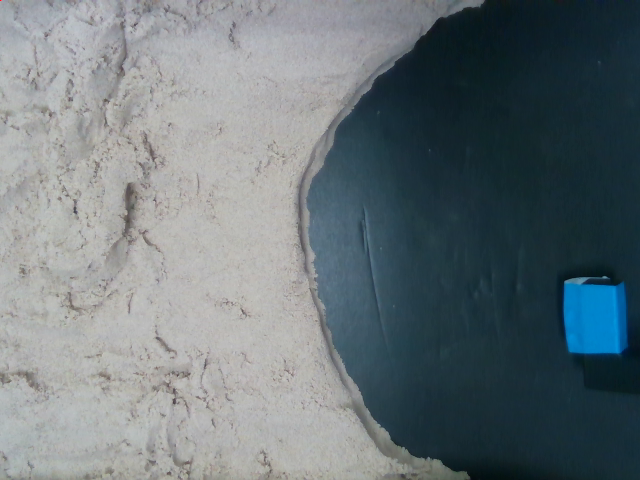
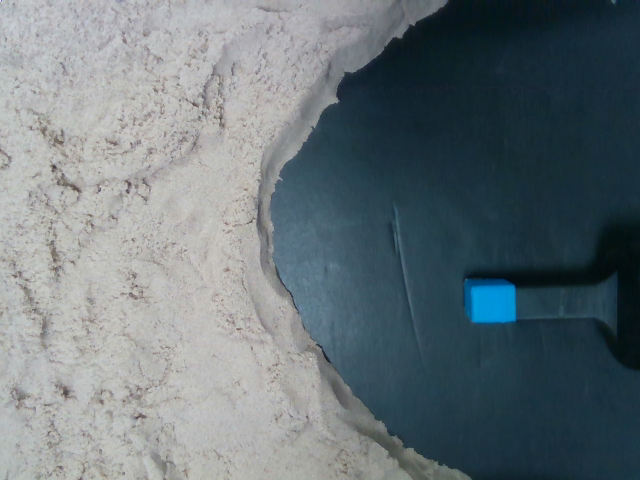
changed ref img. fixed bug about contours. applying dilution to ROI now.

diff --git a/sand_contours.py b/sand_contours.py
@@ -64,9 +64,9 @@ def draw_candidate_pushes(img):
     global sand_actions_msg
     brush_width = 4
     if sand_actions_msg is not None:
-        draw_push(img, sand_actions_msg.ann_push, brush_width, (12,255,255), "Neural Net", (50, 30)) #Yellow
-        draw_push(img, sand_actions_msg.polyreg_push, brush_width, (0,255,125), "Poly Regression", (50, 50))
-        draw_push(img, sand_actions_msg.average_push, brush_width, (12,120,255), "Avg Contour", (50, 70))
+        #draw_push(img, sand_actions_msg.ann_push, brush_width, (12,255,255), "Neural Net", (50, 30)) #Yellow
+        #draw_push(img, sand_actions_msg.polyreg_push, brush_width, (0,255,125), "Poly Regression", (50, 50))
+        #draw_push(img, sand_actions_msg.average_push, brush_width, (12,120,255), "Avg Contour", (50, 70))
         draw_push(img, sand_actions_msg.maxdist_push, brush_width, (255, 255, 0), "Max Contour", (50, 90))
 
 def sand_actions_callback(msg):
@@ -90,32 +90,47 @@ def image_capture(msg):
         save_new = False
     this_ref = image_ref.copy()
     box = get_roi(img.copy())
-    if box is not None:
-        img_contours = sample_contours(get_contours(img.copy(), box))
-        ref_contours = sample_contours(get_contours(image_ref.copy(), box))
+    #print "BOX Width: " + str(box.bot_right_x-box.x)
+    #print "BOX Y: " + str(box.y)
+    
+    if box is None:
+        print "BOX IS NONE!!"
+    else:
 
+        curCont = get_contours(img.copy(), box, True)
+        refCont = get_contours(image_ref.copy(), box, False)
+        
+        img_contours = sample_contours(curCont, 10)
+        ref_contours = sample_contours(refCont, 10)
+            
+        if curCont is not None and len(curCont) > 0:
+            cv2.drawContours(this_ref, curCont, -1, (255,0,0), 0)
+    
+        if refCont is not None and len(refCont) > 0:
+            cv2.drawContours(this_ref, refCont, -1, (0,0,255), 0)
+        
+        cv2.rectangle(img, (box.x, box.y), (box.bot_right_x, box.bot_right_y), (255,0,0))
+        
+        if img_contours is not None:
+            final_curr = img_contours
+            for contour in img_contours:
+                #for p in contour:
+                #cv2.circle(img, tuple(p[0]), 2, [255, 0, 0], thickness=2)
+                for idx,p in enumerate(contour):
+                    #cv2.circle(img, tuple(p[0]), 2, [255, 0, 0], thickness=2)
+                    cv2.putText(img, str(idx), tuple(p[0]), cv2.FONT_HERSHEY_SIMPLEX, 0.5, [255, 0, 0], thickness=2)
+
+        
         if ref_contours is not None:
             final_ref = ref_contours
             for contour in ref_contours:
                 #for p in contour:
                 for idx,p in enumerate(contour):
-                    cv2.circle(this_ref, tuple(p[0]), 2, [255, 0, 0], thickness=2)
-                    #cv2.putText(this_ref, str(idx), tuple(p[0]), cv2.FONT_HERSHEY_SIMPLEX, 1, [255, 0, 0], thickness=2)
+                    #cv2.circle(img, tuple(p[0]), 2, [0, 0, 255], thickness=2)
+                    cv2.putText(img, str(idx), tuple(p[0]), cv2.FONT_HERSHEY_SIMPLEX, 0.5, [0, 0, 255], thickness=2)
+                                
 
-            cv2.rectangle(this_ref, (box.x, box.y), (box.bot_right_x, box.bot_right_y), (255,0,0))
         
-
-        if img_contours is not None:
-            final_curr = img_contours
-            for contour in img_contours:
-                #for p in contour:
-                    #cv2.circle(img, tuple(p[0]), 2, [255, 0, 0], thickness=2)
-                for idx,p in enumerate(contour):
-                    cv2.circle(img, tuple(p[0]), 2, [255, 0, 0], thickness=2)
-                    #cv2.putText(img, str(idx), tuple(p[0]), cv2.FONT_HERSHEY_SIMPLEX, 1, [255, 0, 0], thickness=2)
-
-            cv2.rectangle(img, (box.x, box.y), (box.bot_right_x, box.bot_right_y), (255,0,0))
-
         if ref_contours is None or img_contours is None:
             print("I think I am done! DO NOT PRESS a ON COMMAND GENERATOR - it wouldn't make sense!")
             
@@ -130,7 +145,7 @@ def image_capture(msg):
         cv2.imshow("Image_Ref", this_ref)
         cv2.waitKey(1)
 
-def sample_contours(contours):
+def sample_contours(contours, num):
     #if len(contours) > 0:
         #contour = contours[0]
         #samples = []
@@ -150,13 +165,13 @@ def sample_contours(contours):
     if contours is not None and len(contours) > 0:
         contour = contours[0]
         samples = []
-        if len(contour) > 10:
+        if len(contour) > num:
             length = float(len(contour))
-            for i in range(10):
-                sample = contour[int(math.ceil(i * length / 10))]
+            for i in range(num):
+                sample = contour[int(math.ceil(i * length / num))]
                 samples.append(sample)
 
-            assert len(samples) == 10
+            assert len(samples) == num
 
             return [samples]
         else:
@@ -166,7 +181,7 @@ def sample_contours(contours):
         print("NOT ENOUGH POINTS: less than 1 point in contours")
         return None
 
-def get_contours(image, roi):
+def get_contours(image, roi, draw_test):
     MIN_PIXELS = 50
     lower = np.array([0, 0, 100])
     upper = np.array([255, 50, 255])
@@ -176,13 +191,21 @@ def get_contours(image, roi):
     hsv = cv2.cvtColor(cropped, cv2.COLOR_BGR2HSV)
     thresh  = cv2.inRange(hsv, lower, upper)
 
-    _, contours, _= cv2.findContours(thresh.copy(), cv2.RETR_EXTERNAL,
-                                                      cv2.CHAIN_APPROX_NONE)
+    kernel = np.ones((5,5), np.uint8)
+    thresh = cv2.dilate(thresh, kernel, iterations=1)
+    thresh = cv2.erode(thresh, kernel, iterations=1)
 
+    _, contours, _= cv2.findContours(thresh.copy(), cv2.RETR_EXTERNAL, cv2.CHAIN_APPROX_NONE)
+
+    
+    if draw_test:
+        cv2.namedWindow("TEST")
+        cv2.imshow("TEST", thresh)
+                
     if len(contours) > 0:
         contours = filter_contours(contours, MIN_PIXELS)
         if contours is not None:
-            contours = remove_border(contours, roi, thresh=5)
+            contours = remove_border(contours, roi, thresh=1)#was 5
 
     return contours
    
@@ -220,7 +243,7 @@ def filter_contours(contours, thresh):
 
 def get_roi(img):
     # Binary threshold value
-    THRESH     = 50
+    THRESH     = 35
     MIN_PIXELS = 200 #500 # Min size for cont
     MAX_DIST   = 3
 
@@ -286,7 +309,7 @@ if __name__ == '__main__':
 
     image_sub = rospy.Subscriber('/camera/rgb/image_raw', sensor_msgs.msg.Image, image_capture, queue_size=1) #listen robot position
     actions_sub = rospy.Subscriber('/sand_actions', SandActions, sand_actions_callback, queue_size=1)
-    pub = rospy.Publisher('contours', Int32MultiArray, queue_size=10)
+    pub = rospy.Publisher('contours', Int32MultiArray, queue_size=1)
 
     
     # Publish velocity at 100Hz.
@@ -306,4 +329,6 @@ if __name__ == '__main__':
 
             final_contours.data = data
             pub.publish(final_contours)
+            final_ref = None
+            final_curr = None
         r.sleep()
